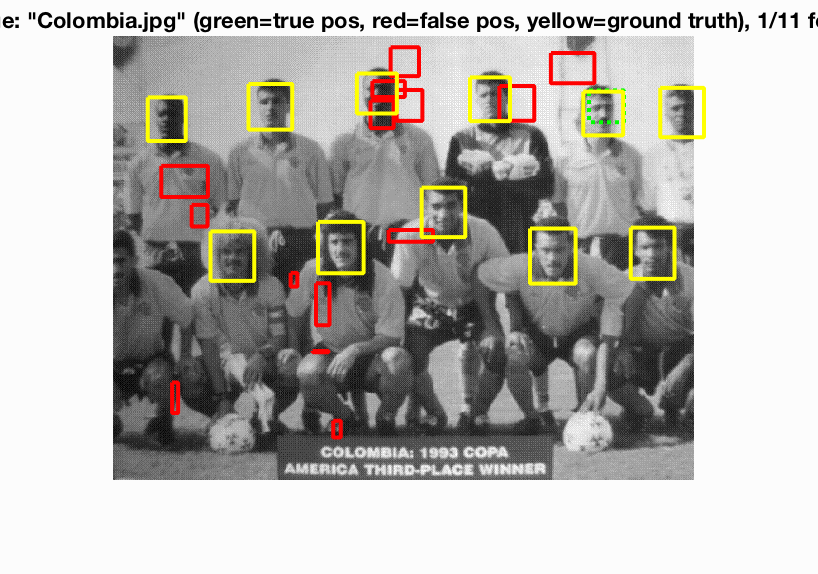
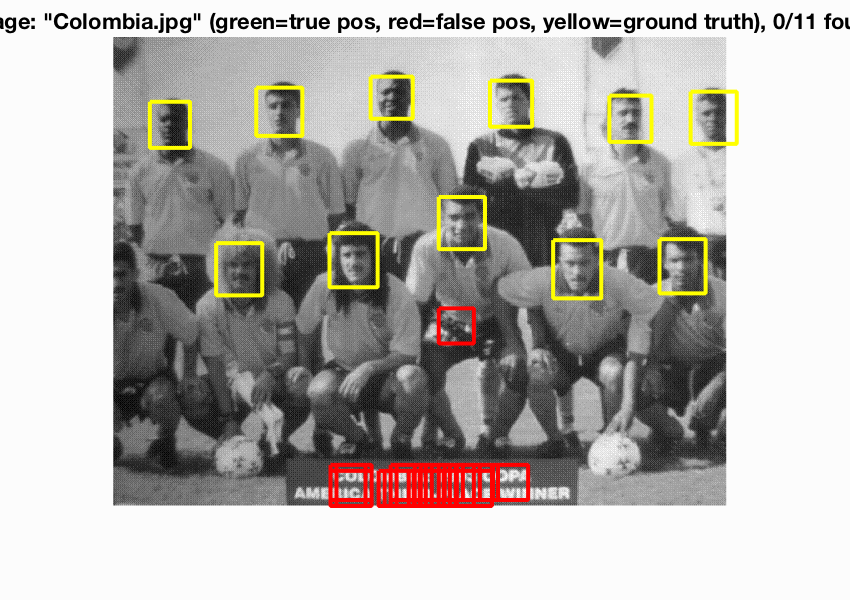
feature

Changed region(s): [[0.0, 0.0, 1.0, 0.8589], [0.2751, 0.1185, 0.3667, 0.2962]]

diff --git a/get_random_negative_features.m b/get_random_negative_features.m
@@ -34,6 +34,21 @@ function features_neg = get_random_negative_features(non_face_scn_path, feature_
 
 image_files = dir( fullfile( non_face_scn_path, '*.jpg' ));
 num_images = length(image_files);
+sample_per_image = int32(num_samples/num_images)+1;
+
+feature_neg = [];
+for i=1:num_images
+    gray_image=imread([image_files(i).folder '/' image_files(i).name]);
+    if gray_image(1,1,:)>1
+        gray_image=rgb2gray(gray_image);
+    end
+    for j=1:sample_per_image
+        row_start = randi(length(gray_image(:,1))-feature_params.template_size);
+        col_start = randi(length(gray_image(1,:))-feature_params.template_size);
+        crop_image = single(gray_image(row_start:row_start+feature_params.template_size,col_start:col_start+feature_params.template_size)/255);
+        feature_neg((i-1)*sample_per_image+j,:)=reshape(vl_hog(crop_image,feature_params.hog_cell_size),1,[]);
+    end
+end
 
 % placeholder to be deleted
-features_neg = rand(100, (feature_params.template_size / feature_params.hog_cell_size)^2 * 31);
+features_neg = feature_neg;%rand(100, (feature_params.template_size / feature_params.hog_cell_size)^2 * 31);

diff --git a/get_positive_features.m b/get_positive_features.m
@@ -30,6 +30,11 @@ function features_pos = get_positive_features(train_path_pos, feature_params)
 
 image_files = dir( fullfile( train_path_pos, '*.jpg') ); %Caltech Faces stored as .jpg
 num_images = length(image_files);
+feature_pos = [];
+for i=1:num_images
+    gray_image=single(imread([image_files(i).folder '/' image_files(i).name]))/255;
+    feature_pos(i,:)=reshape(vl_hog(gray_image,feature_params.hog_cell_size),1,[]);
+end
 
 % placeholder to be deleted
-features_pos = rand(100, (feature_params.template_size / feature_params.hog_cell_size)^2 * 31);
+features_pos = feature_pos;%rand(100, (feature_params.template_size / feature_params.hog_cell_size)^2 * 31);
